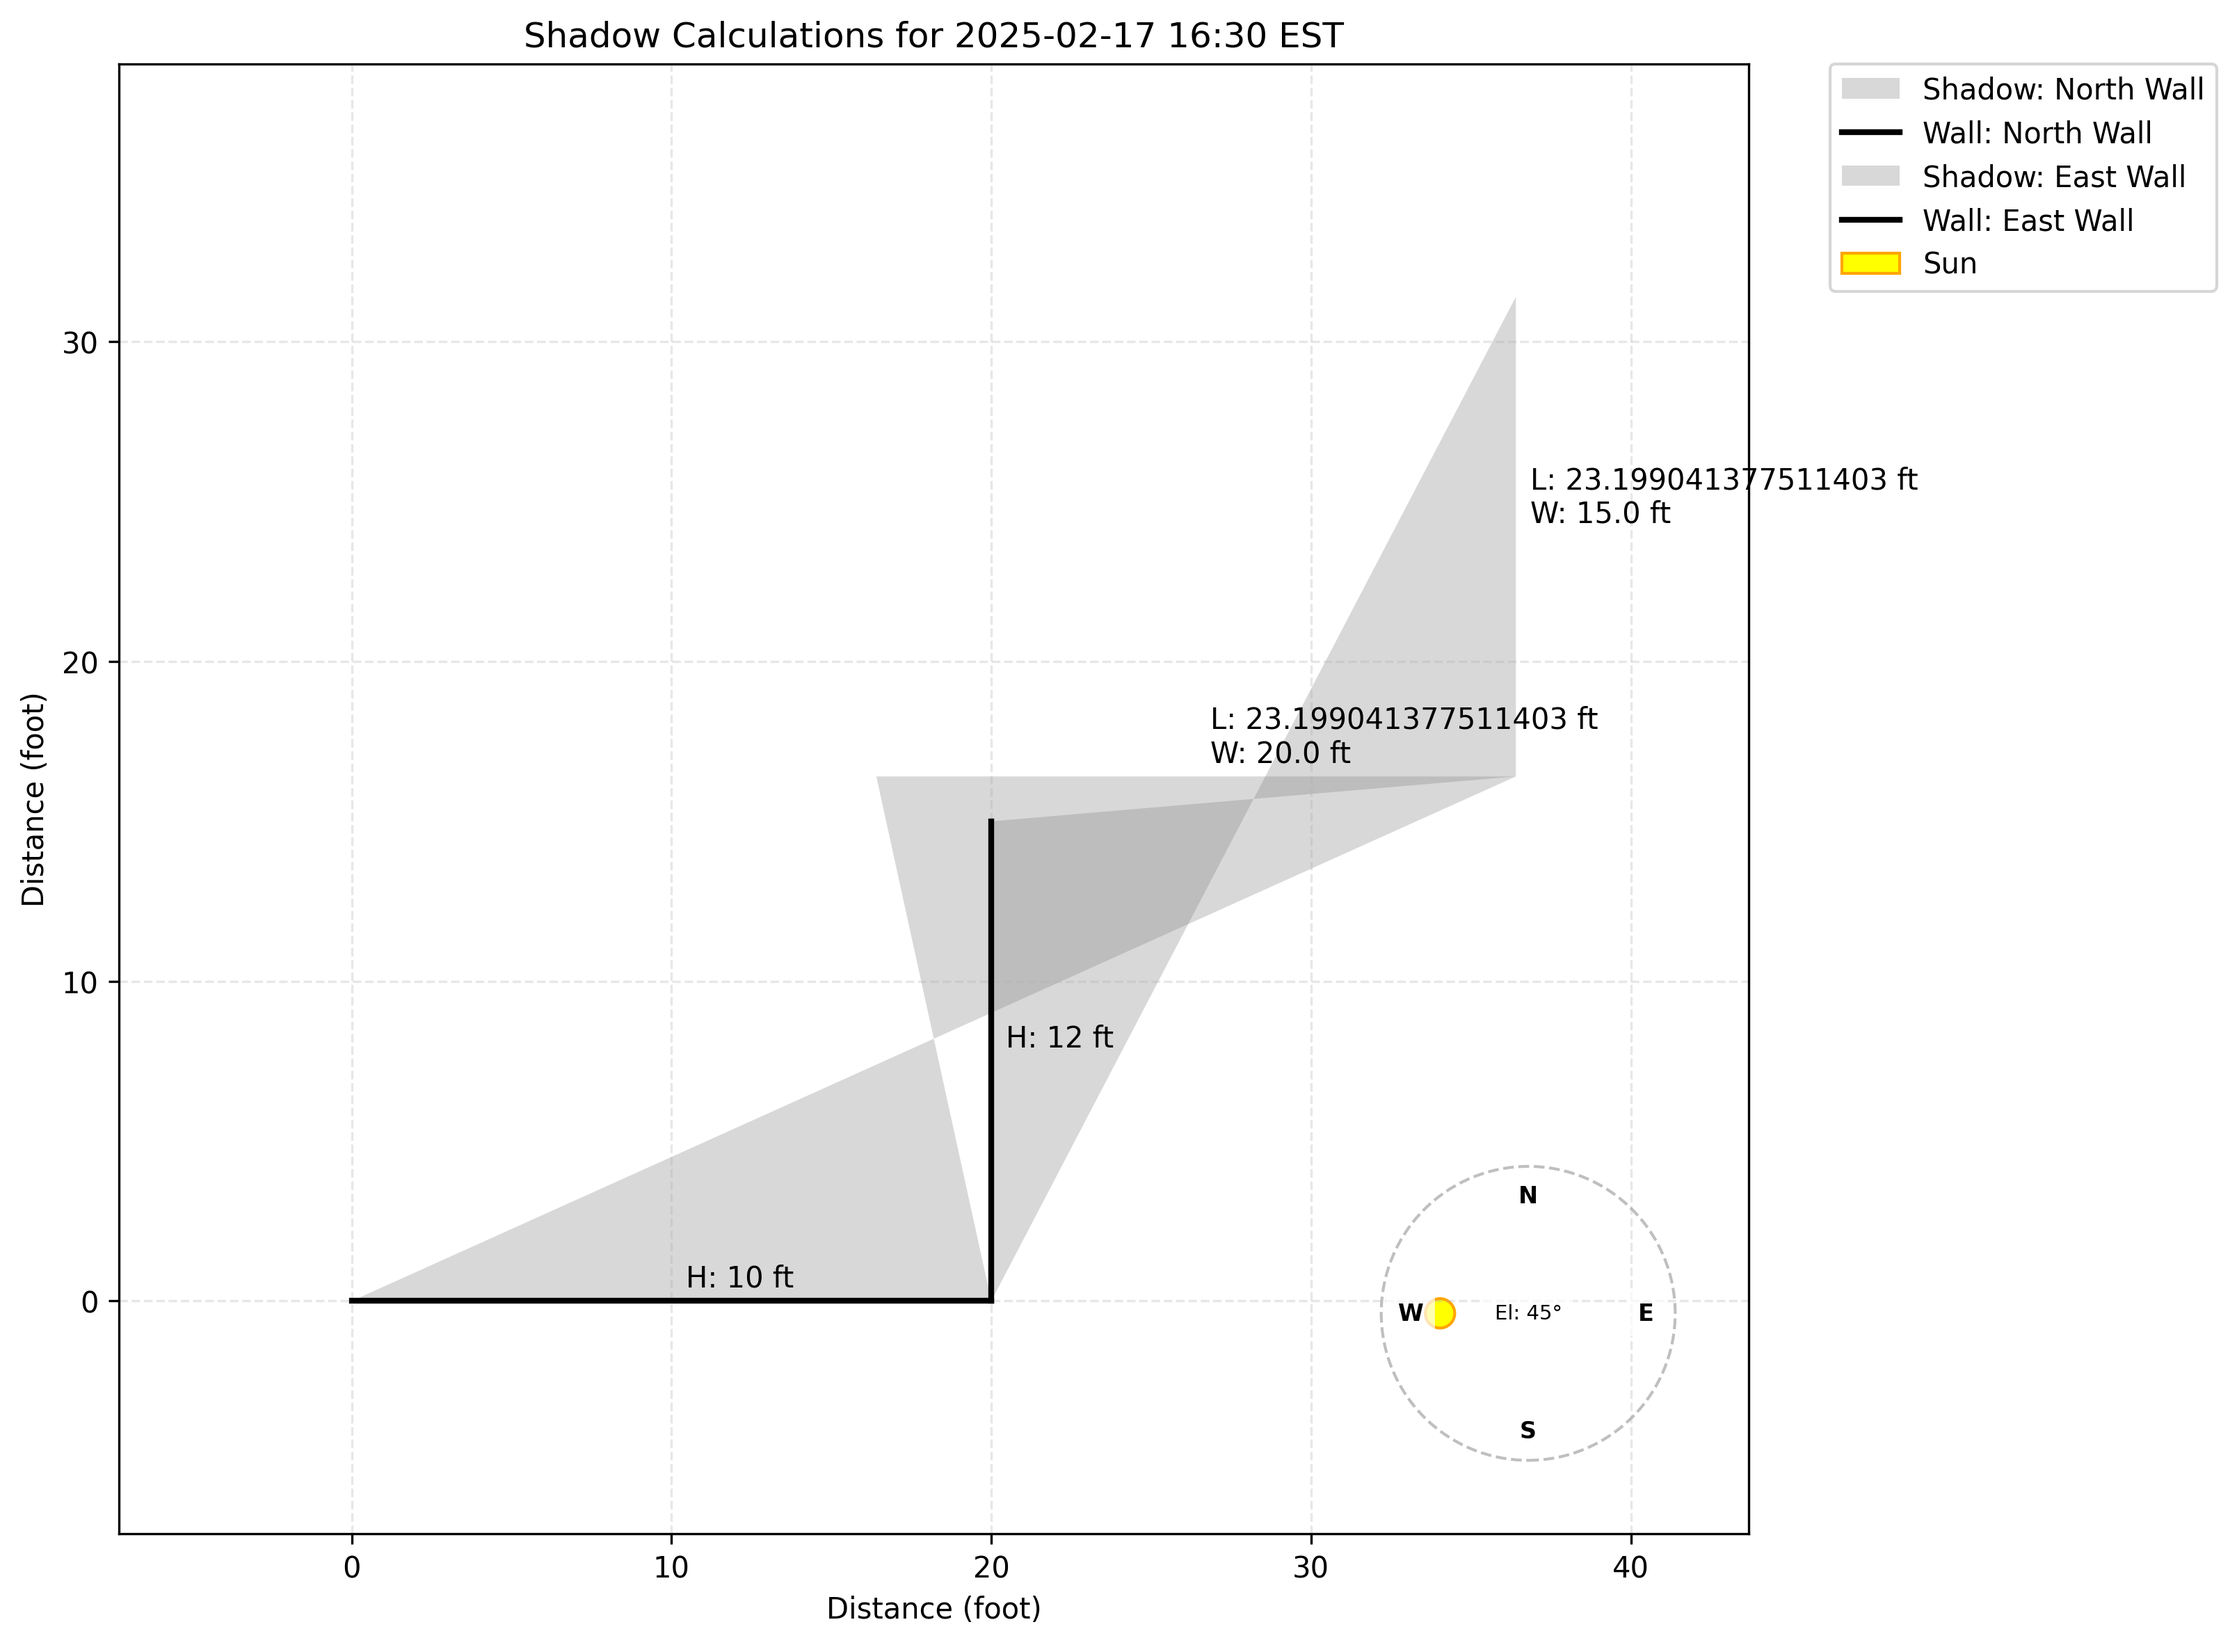
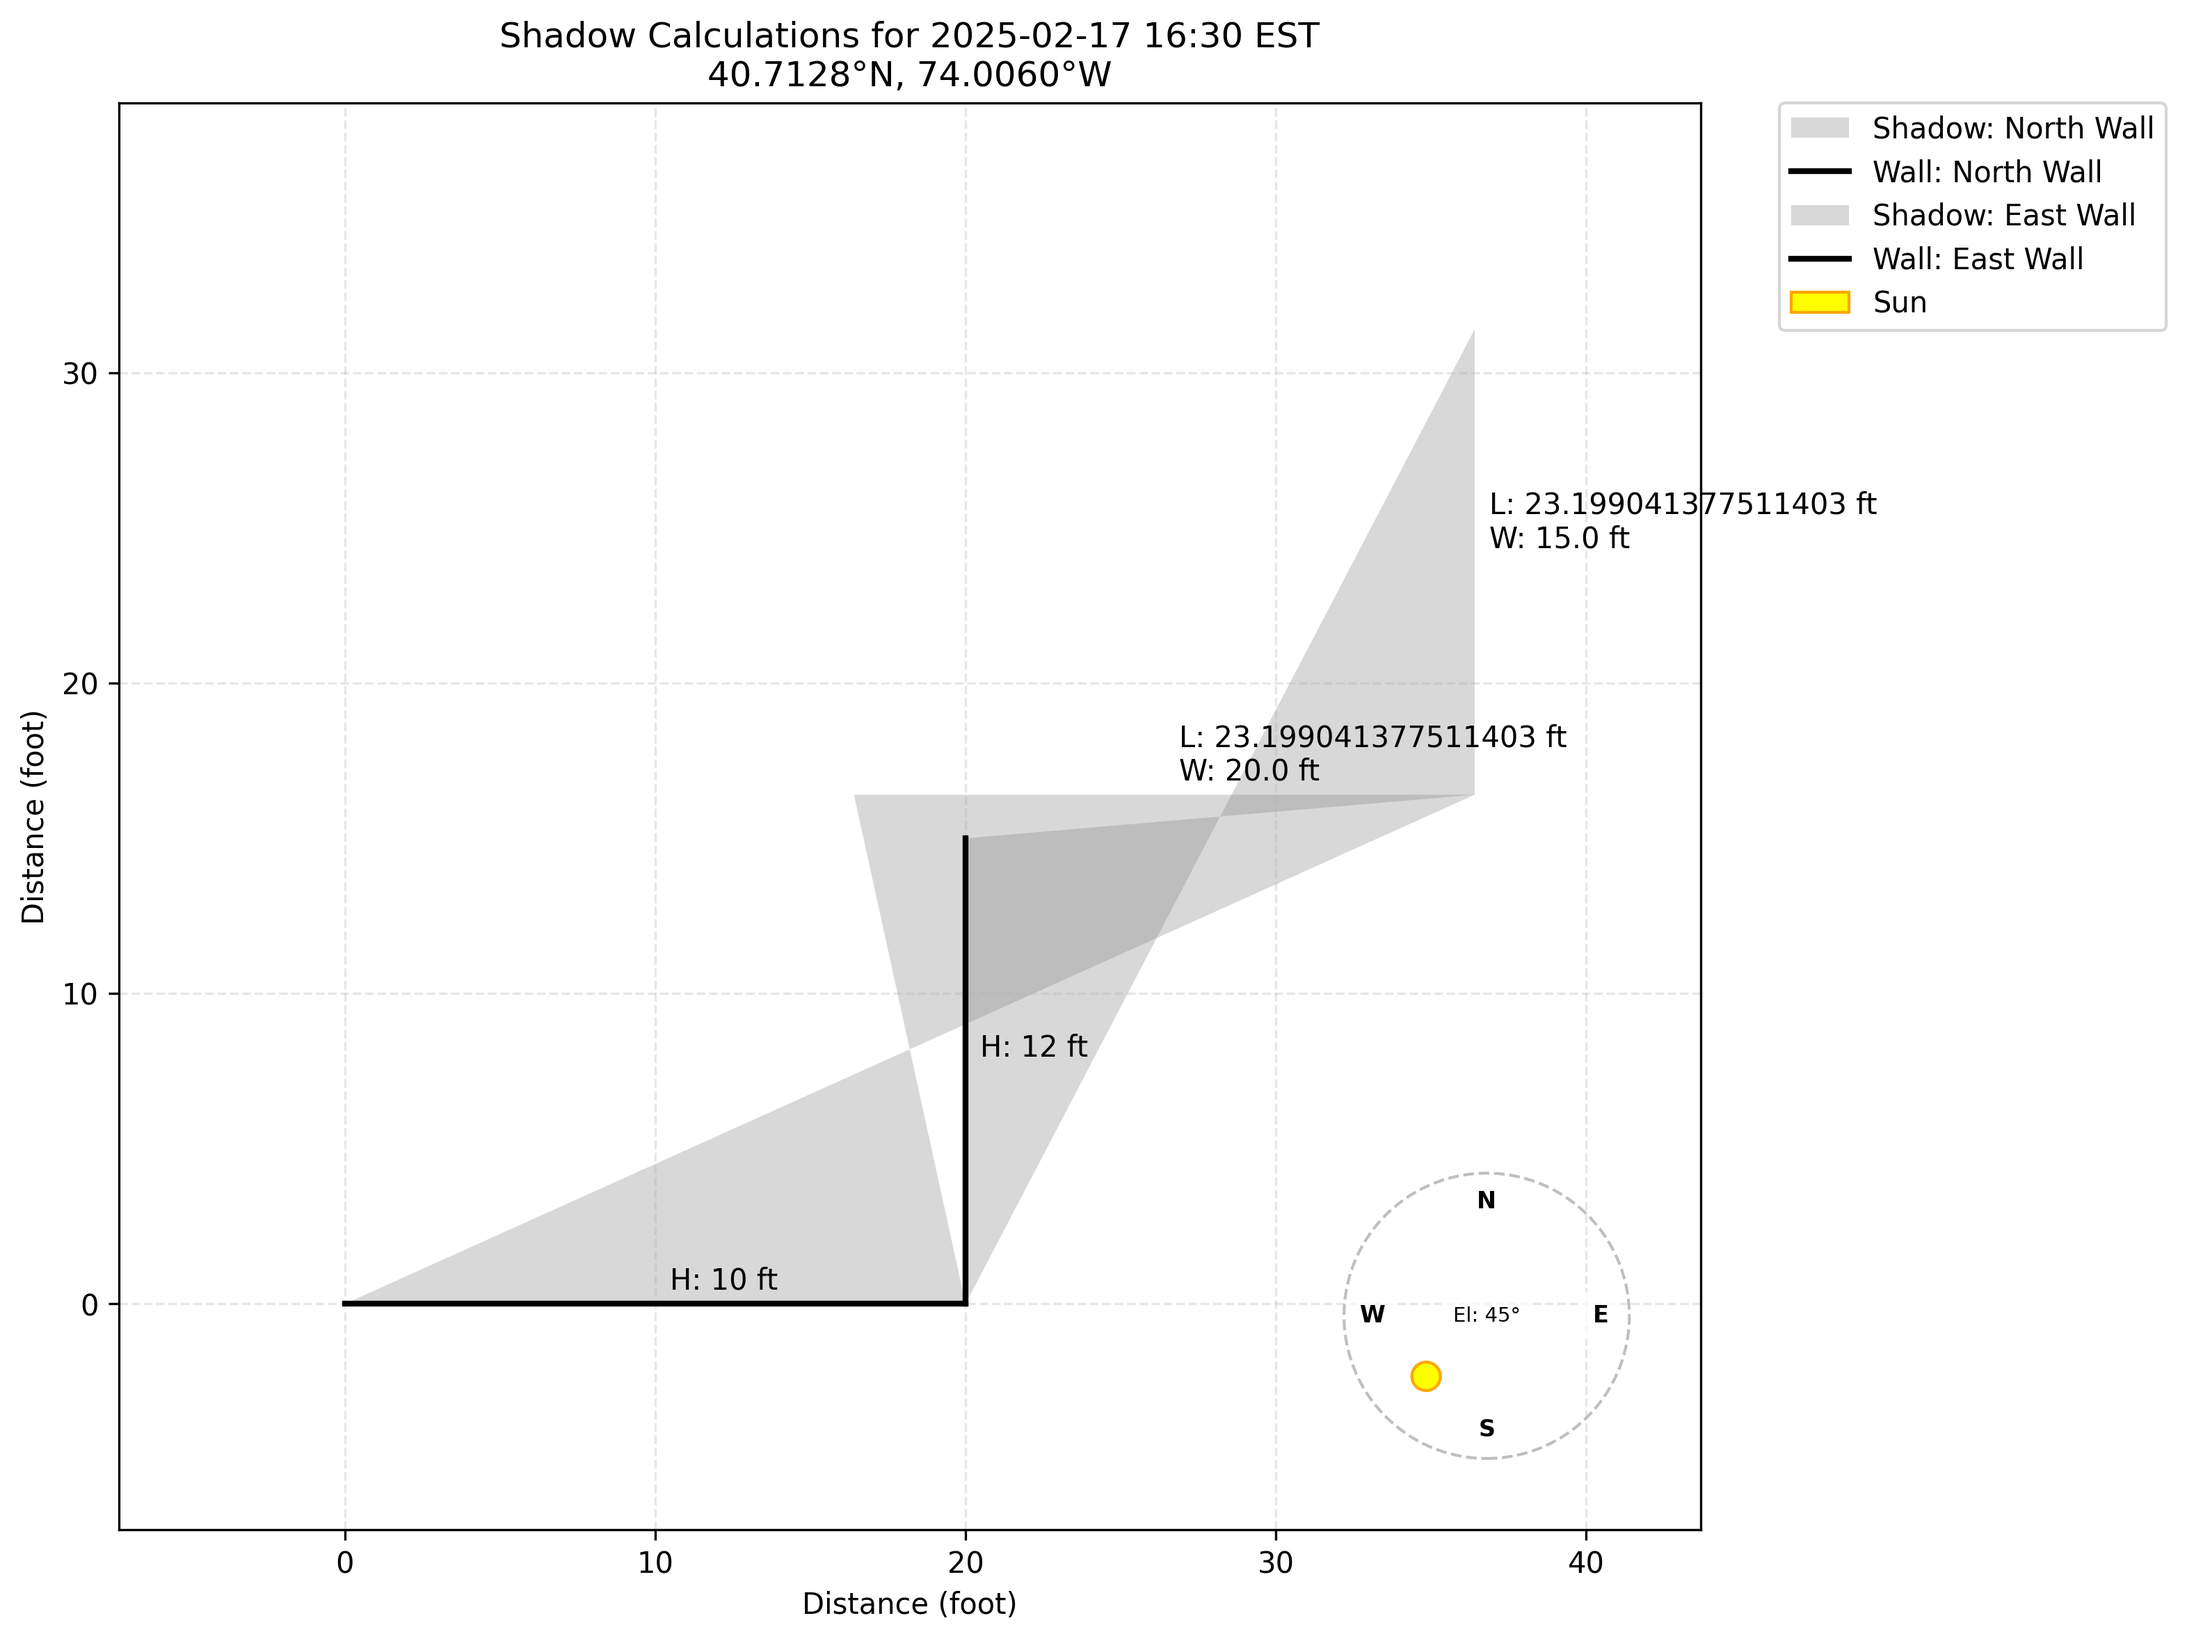
Sun path correction

diff --git a/Plotting/ShadowPlotter.py b/Plotting/ShadowPlotter.py
@@ -7,14 +7,28 @@ import numpy as np
 from DataModel.Shadow import Shadow
 from DataModel.Wall import Wall
 from DataModel.PlotConfig import PlotConfig
+from DataModel.Location import Location
 
 class ShadowPlotter:
     """Class for plotting shadows and walls."""
     
-    def __init__(self, config: PlotConfig):
-        """Initialize the plotter with configuration."""
+    def __init__(self, config: PlotConfig, location: Location):
+        """Initialize the plotter with configuration and location."""
         self.config = config
+        self.location = location
+    
+    def format_location(self) -> str:
+        """Format location for display.
         
+        Returns:
+            Location string in format "lat°N/S, lon°E/W"
+        """
+        lat = abs(self.location.latitude)
+        lon = abs(self.location.longitude)
+        lat_dir = 'N' if self.location.latitude >= 0 else 'S'
+        lon_dir = 'E' if self.location.longitude >= 0 else 'W'
+        return f"{lat:.4f}°{lat_dir}, {lon:.4f}°{lon_dir}"
+    
     def plot_wall(self, wall: Wall, ax: Axes, show_dimensions: bool = True) -> None:
         """Plot a wall on the given axes.
         
@@ -188,12 +202,15 @@ class ShadowPlotter:
         if self.config.show_compass and shadows:
             self.plot_compass_with_sun(ax, x_min, x_max, y_min, y_max, shadows[0])
         
-        # Set title with time in configured timezone
-        if title:
-            ax.set_title(title)
-        elif shadows:
+        # Set title with time and location
+        if shadows:
             time_str = self.config.format_time(shadows[0].time)
-            ax.set_title(f"Shadow Calculations for {time_str}")
+            location_str = self.format_location()
+            if title:
+                title = f"{title}\n{location_str}"
+            else:
+                title = f"Shadow Calculations for {time_str}\n{location_str}"
+        ax.set_title(title)
             
         # Add grid and labels
         ax.grid(True, linestyle='--', alpha=0.3)

diff --git a/ShadowCalculator.py b/ShadowCalculator.py
@@ -73,12 +73,13 @@ class ShadowCalculator:
             ]
             
             # Create shadow with placeholder solar position
+            # Azimuth of 225° is southwest (180° is south, 270° is west)
             shadow = Shadow(
                 wall=wall,
                 time=time,
                 vertices=vertices,
-                solar_elevation=45.0,  # Placeholder
-                solar_azimuth=180.0    # Placeholder
+                solar_elevation=45.0,
+                solar_azimuth=225.0  # Southwest
             )
             shadows.append(shadow)
             
@@ -104,8 +105,8 @@ class ShadowCalculator:
         if not self.plot_config.enabled:
             return
             
-        # Create plotter with configuration
-        plotter = ShadowPlotter(self.plot_config)
+        # Create plotter with configuration and location
+        plotter = ShadowPlotter(self.plot_config, self.location)
         
         # Create plot
         fig = plotter.plot(shadows)
